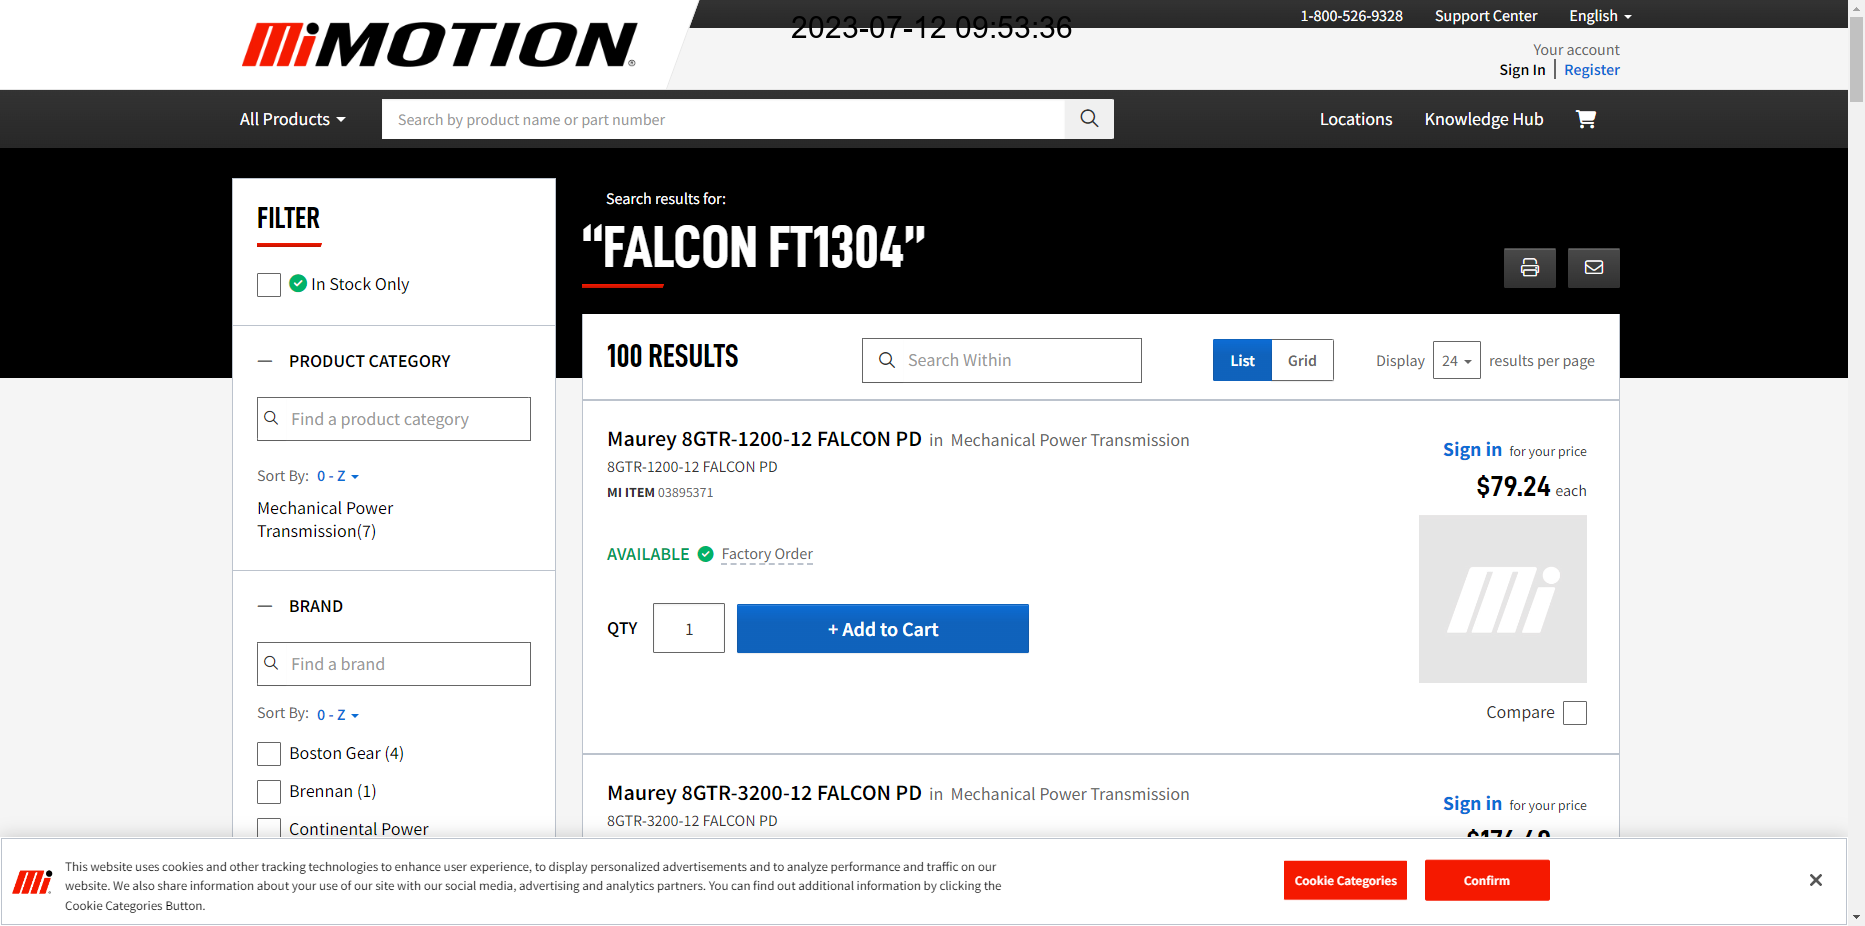
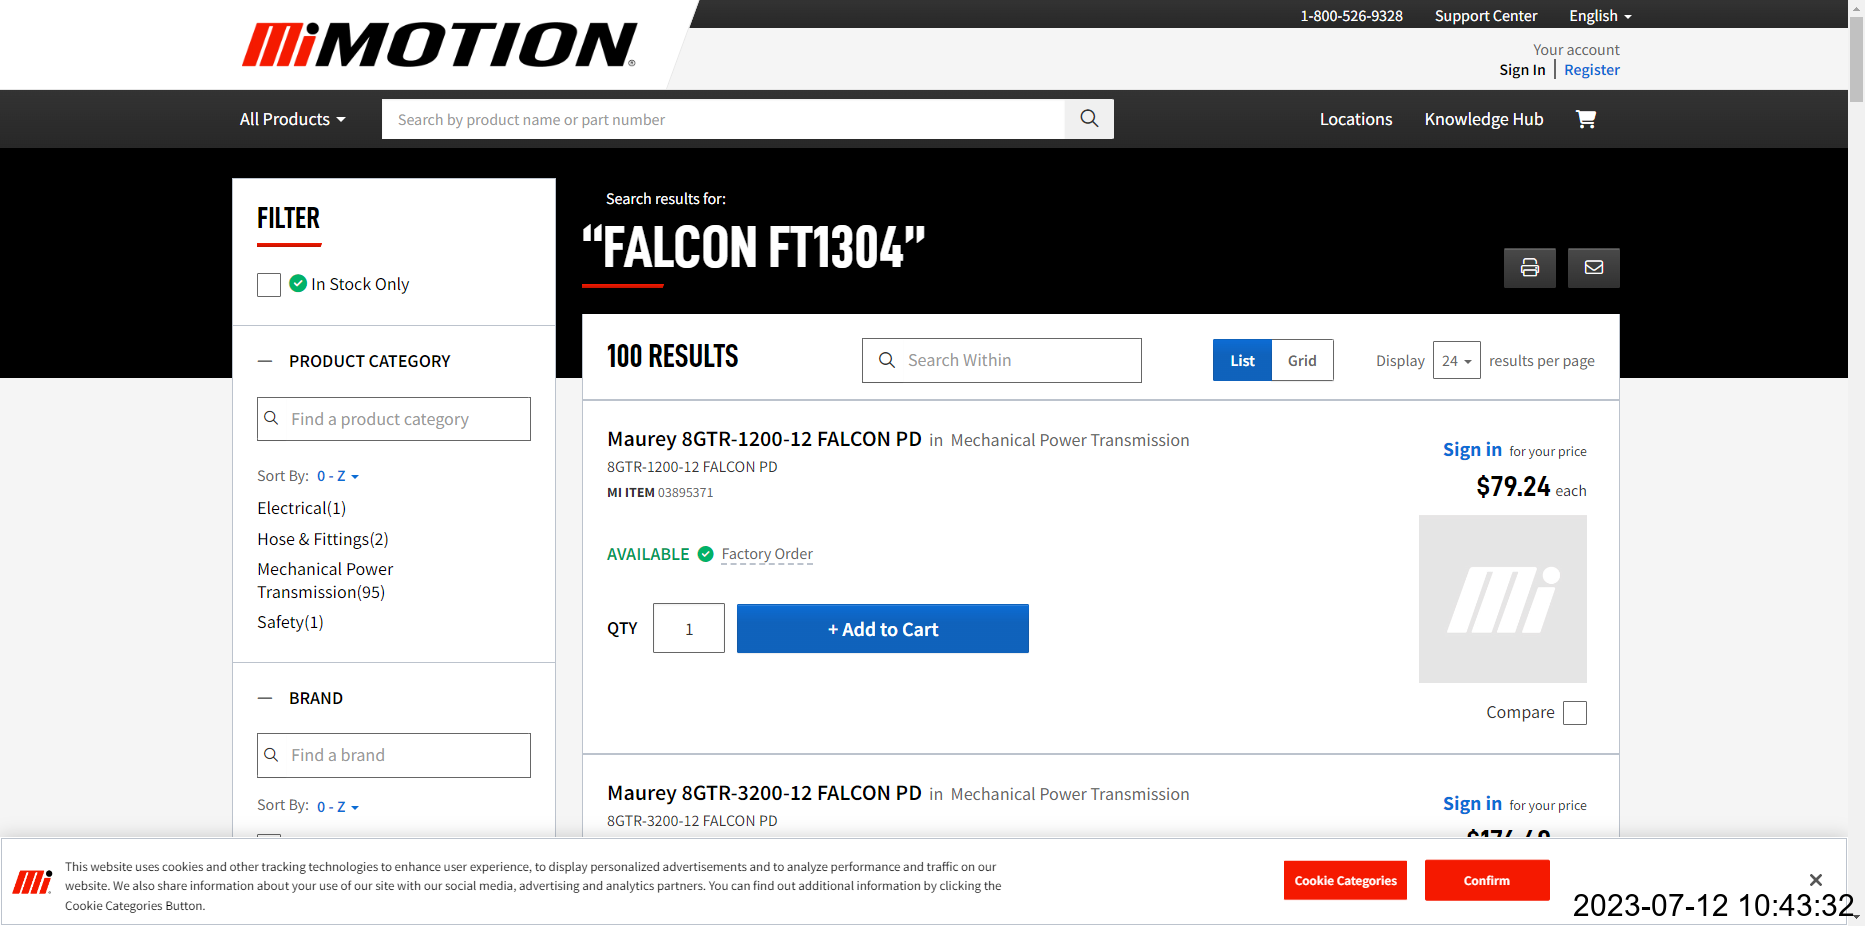
watermark moved

Changed region(s): [[0.1244, 0.5443, 0.2177, 0.9071], [0.4354, 0.0, 0.5598, 0.0605], [0.8397, 0.9676, 0.9952, 0.9978]]

diff --git a/docs/screenshot.py b/docs/screenshot.py
@@ -67,7 +67,7 @@ def add_watermark(screenshot_filename):
     img_width, img_height = img.size
     text_width, text_height = draw.textsize(text, font=font)
 
-    position = ((img_width - text_width) // 2, 10)
+    position = (img_width - text_width - 10, img_height - text_height -10)
 
     draw.text(position, text, font=font, fill=color)
     img.save(screenshot_filename)
